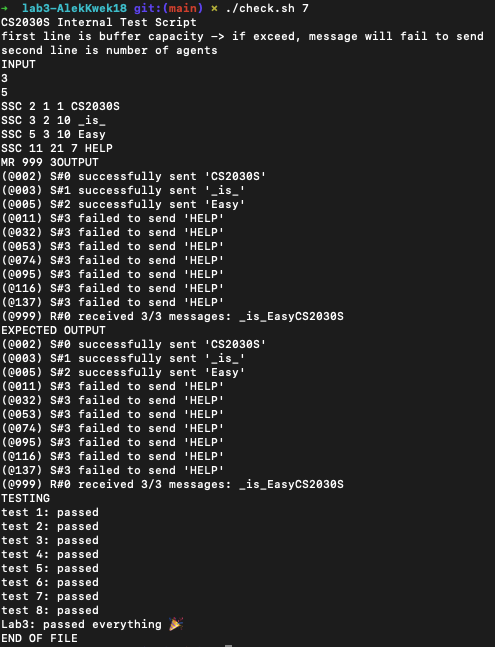
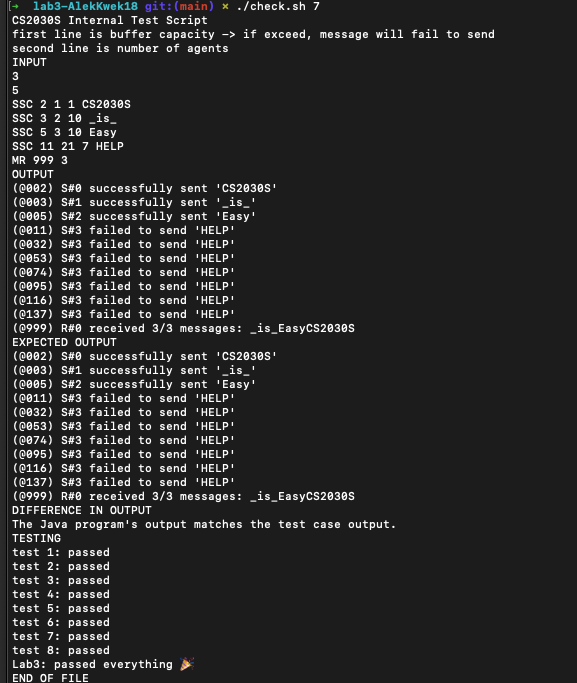
v3

Changed region(s): [[0.0, 0.0, 0.9697, 1.0], [0.4545, 0.9892, 0.4848, 1.0]]

diff --git a/README.md b/README.md
@@ -6,6 +6,14 @@ The script will compile your LabX.java and automatically run all the test cases 
 
 For initial setup, run this command to set the permission of the script to execute: `chmod +x check.sh`
 
+What the script does (in the following order)
+- Removes all .class file before compiling
+- Compiles the lab files
+- Set permission test.sh to execute
+- Enables user to enter any test case and see the actual and expected output
+- Run test.sh
+- Removes all .class file after test is completed
+
 **Usage:**
 
 To use, run the command: `./check.sh`
@@ -19,3 +27,8 @@ For example, running: `./check.sh 7`
 prints the input, output, and expected output for case 7.
 
 ![alt text](https://github.com/AlekKwek18/C2030S-Lab-Testing-Script/blob/main/example2.png)
+
+
+If your lab does not match the output, it will display this
+
+![alt text](https://github.com/AlekKwek18/C2030S-Lab-Testing-Script/blob/main/example3.png)
